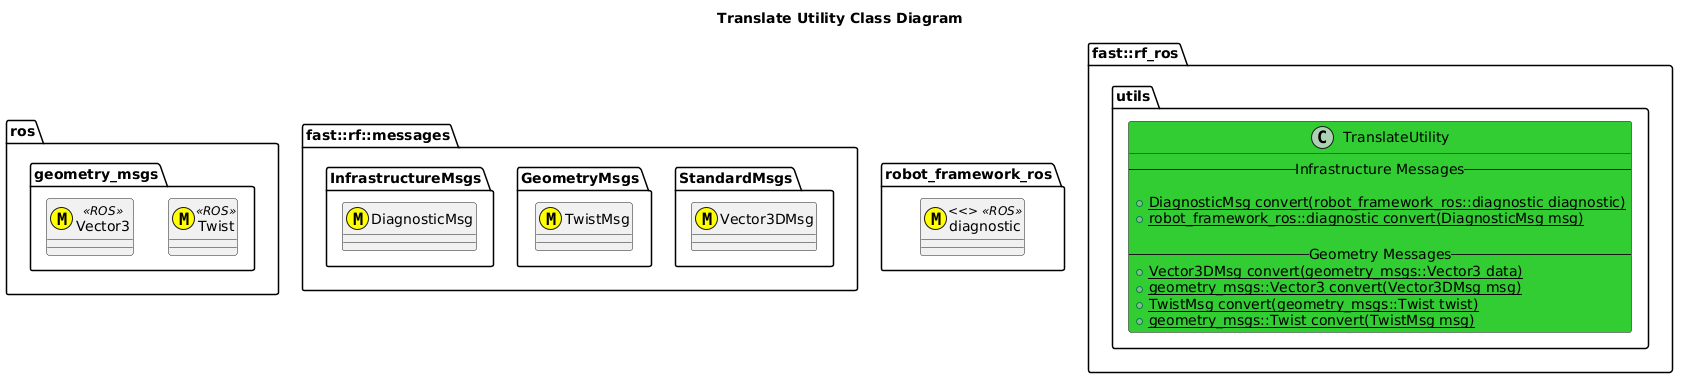
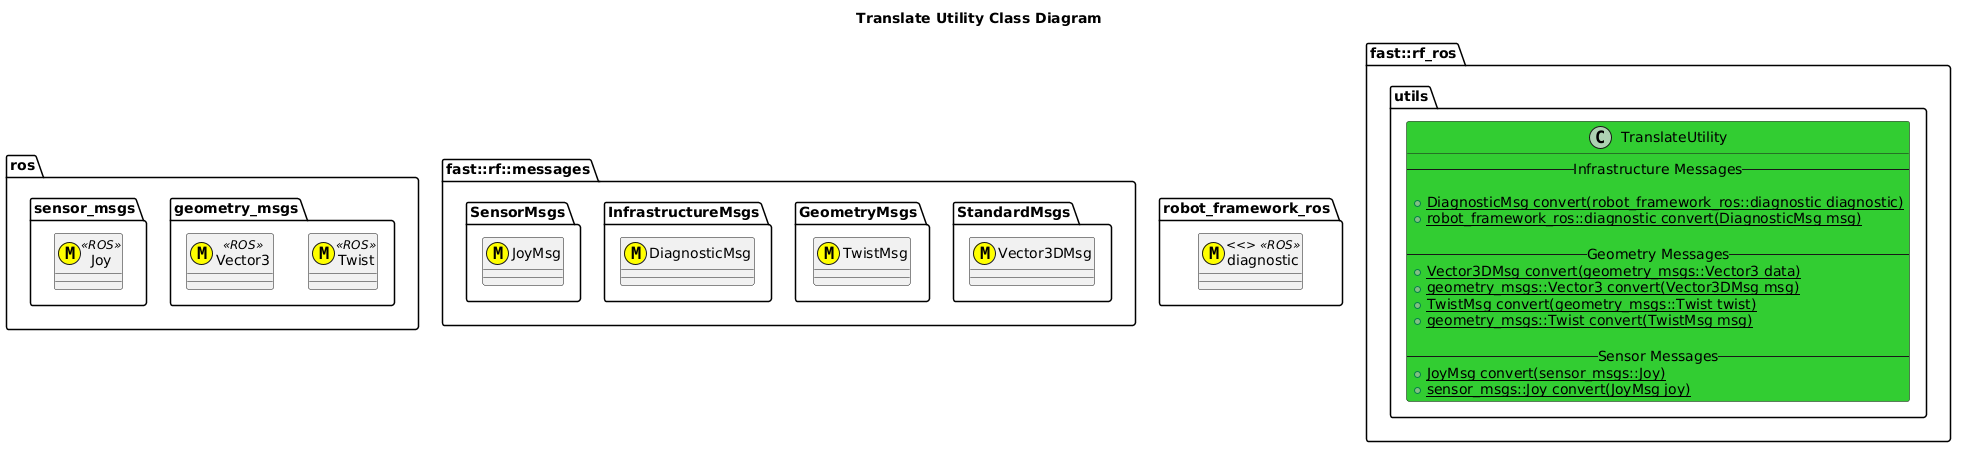
Updates

Changed region(s): [[0.0, 0.0933, 1.0, 0.9948], [0.4318, 0.0311, 0.586, 0.0622]]

diff --git a/core/utils/TranslateUtility/test/test_TranslateUtility.cpp b/core/utils/TranslateUtility/test/test_TranslateUtility.cpp
@@ -105,6 +105,24 @@ TEST(TestConversion, GeometryMessageConvertTwist) {
         ASSERT_FLOAT_EQ(msg.angular.z, twist.angular.z);
     }
 }
+TEST(TestConversion, SensorMsgsConvertJoy) {
+    {  // Convert to ROS Message
+        fast::rf::messages::SensorMsgs::JoyMsg joy;
+        joy.axes.push_back(1.0);
+        joy.buttons.push_back(2);
+        auto msg = TranslateUtility::convert(joy);
+        ASSERT_EQ(msg.axes.size(), joy.axes.size());
+        ASSERT_EQ(msg.buttons.size(), joy.buttons.size());
+    }
+    {  // Convert from ROS Message
+        sensor_msgs::Joy joy;
+        joy.axes.push_back(1.0);
+        joy.buttons.push_back(2);
+        auto msg = TranslateUtility::convert(joy);
+        ASSERT_EQ(msg.axes.size(), joy.axes.size());
+        ASSERT_EQ(msg.buttons.size(), joy.buttons.size());
+    }
+}
 int main(int argc, char** argv) {
     testing::InitGoogleTest(&argc, argv);
     return RUN_ALL_TESTS();

diff --git a/include/robot_framework_ros/utils/TranslateUtility.hpp b/include/robot_framework_ros/utils/TranslateUtility.hpp
@@ -11,8 +11,10 @@
 #include <geometry_msgs/Twist.h>
 #include <geometry_msgs/Vector3.h>
 #include <robot_framework_ros/diagnostic.h>
+#include <sensor_msgs/Joy.h>
 
 #include <DiagnosticMsg.hpp>
+#include <JoyMsg.hpp>
 #include <TwistMsg.hpp>
 #include <Vector3DMsg.hpp>
 
@@ -74,5 +76,21 @@ namespace fast::rf_ros::utils {
          * @return geometry_msgs::Vector3
          */
         static geometry_msgs::Vector3 convert(fast::rf::messages::StandardMsgs::Vector3DMsg msg);
+
+        /**
+         * @brief Convert from a ROS message to a Core message of type Joy
+         *
+         * @param msg
+         * @return fast::rf::messages::SensorMsgs::JoyMsg
+         */
+        static fast::rf::messages::SensorMsgs::JoyMsg convert(sensor_msgs::Joy msg);
+
+        /**
+         * @brief Convert from a Core message to a ROS message of type Joy
+         *
+         * @param msg
+         * @return sensor_msgs::Joy
+         */
+        static sensor_msgs::Joy convert(fast::rf::messages::SensorMsgs::JoyMsg msg);
     };
 }  // namespace fast::rf_ros::utils

diff --git a/core/utils/TranslateUtility/TranslateUtility.cpp b/core/utils/TranslateUtility/TranslateUtility.cpp
@@ -55,5 +55,20 @@ namespace fast::rf_ros::utils {
         data.z = msg.z;
         return data;
     }
+    fast::rf::messages::SensorMsgs::JoyMsg TranslateUtility::convert(sensor_msgs::Joy msg) {
+        fast::rf::messages::SensorMsgs::JoyMsg joy;
+        joy.time_stamp = msg.header.stamp.toSec();
+        joy.axes.assign(msg.axes.begin(), msg.axes.end());
+        joy.buttons.assign(msg.buttons.begin(), msg.buttons.end());
+        return joy;
+    }
+
+    sensor_msgs::Joy TranslateUtility::convert(fast::rf::messages::SensorMsgs::JoyMsg msg) {
+        sensor_msgs::Joy joy;
+        joy.header.stamp = ros::Time(msg.time_stamp);
+        joy.axes.assign(msg.axes.begin(), msg.axes.end());
+        joy.buttons.assign(msg.buttons.begin(), msg.buttons.end());
+        return joy;
+    }
 
 }  // namespace fast::rf_ros::utils

diff --git a/Systems/UserInterface/Subsystems/RemoteControl/Nodes/TeleopControl/BasicTeleopControlNode/BasicTeleopControlNode.cpp b/Systems/UserInterface/Subsystems/RemoteControl/Nodes/TeleopControl/BasicTeleopControlNode/BasicTeleopControlNode.cpp
@@ -2,6 +2,7 @@
 
 #include <robot_framework_ros/utils/TranslateUtility.hpp>
 bool kill_node = false;
+
 using namespace fast::rf_ros;
 namespace fast::rf_ros::UserInterfaceSystem::RemoteControlSubsystem {
 
@@ -14,7 +15,7 @@ namespace fast::rf_ros::UserInterfaceSystem::RemoteControlSubsystem {
             return false;
         }
         status =
-            process.set_operation_mode(fast::rf::UserInterfaceSystem::RemoteControlSubsystem::OperationMode::KEY_TEST);
+            process.set_operation_mode(fast::rf::UserInterfaceSystem::RemoteControlSubsystem::OperationMode::JOY_TEST);
         status = BaseNode::base_init();
         if (status == false) {
             ROS_ERROR("Unable to initialize Base Node!");
@@ -25,7 +26,6 @@ namespace fast::rf_ros::UserInterfaceSystem::RemoteControlSubsystem {
 
     bool BasicTeleopControlNode::start() { return BaseNode::base_start(); }
     bool BasicTeleopControlNode::run_loop1() {
-        process.key_pressed(fast::rf::UserInterfaceSystem::RemoteControlSubsystem::KeyPressed::UP_ARROW);
         process.update(ros::Time::now().toSec(), 0.0);
 
         return true;

diff --git a/Systems/UserInterface/Subsystems/RemoteControl/Nodes/TeleopControl/BasicTeleopControlNode/test/test_BasicTeleopControlNode.cpp b/Systems/UserInterface/Subsystems/RemoteControl/Nodes/TeleopControl/BasicTeleopControlNode/test/test_BasicTeleopControlNode.cpp
@@ -4,7 +4,7 @@
 #include <ros/ros.h>
 #include <std_msgs/Float64.h>
 
-#include "../TankDriveExecutorNode.hpp"
+#include "../BasicTeleopControlNode.hpp"
 
 using namespace fast::rf_ros;
 

diff --git a/README.md b/README.md
@@ -38,9 +38,13 @@
 
 
 ## This PR
-| Item                             |
-| -------------------------------- |
-| Add topic names to configuration |
+| Item                                                   |
+| ------------------------------------------------------ |
+| Add topic names to configuration                       |
+| Add specification launch joy node                      |
+| Add pub and sub to Teleop Control Node (joy --> twist) |
+| Testing                                                |
+| Check Doxygen                                          |
 
 
 # Setup